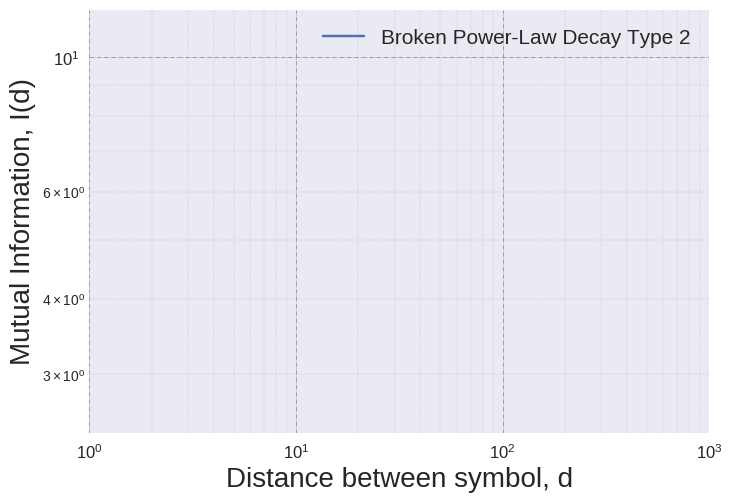
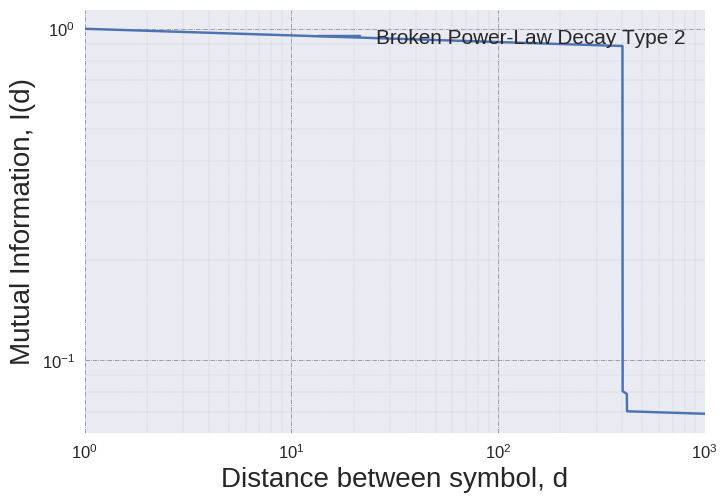
Up

diff --git a/paper_related/framework.py b/paper_related/framework.py
@@ -70,7 +70,7 @@ with plt.style.context(('seaborn')):
     plt.grid(which='major', linestyle='-.', linewidth='0.5', color='grey')
     plt.grid(which='minor', linestyle=':', linewidth='0.2', color='grey')
     ax.set_xlim(1.0, 1000.0)
-    ax.set_ylim(2.4, 12)
+    # ax.set_ylim(2.4, 12)
     ax.set_xlabel('Distance between symbol, d', fontsize=20)
     ax.set_ylabel('Mutual Information, I(d)', fontsize=20)
     plt.savefig('pl_broken2', bbox_extra_artists=(lgd,), bbox_inches='tight')
